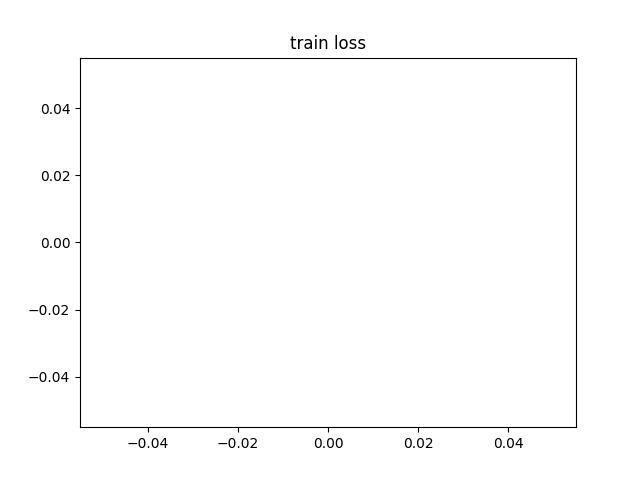
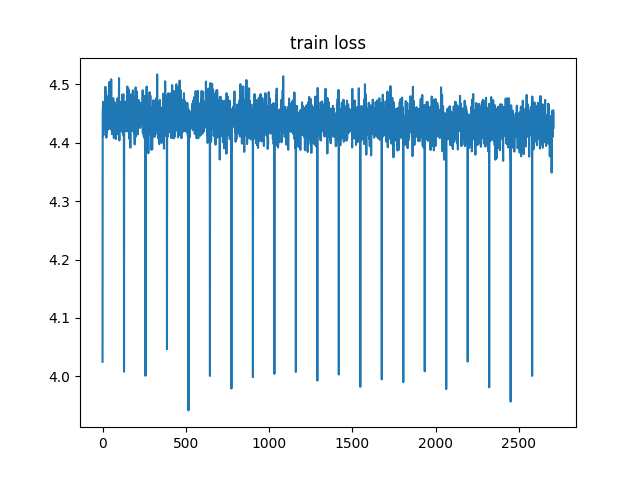
sad day, sad results

diff --git a/runFR_race.py b/runFR_race.py
@@ -37,17 +37,15 @@ def train_race_fr():
   tune_data, val_data = random_split(tune_val_data, [7112, 16595])
 
   # create the base model
-  saved = torch.load('chkpt/race_train.tar')
-  trained_model = model = ResNetSimCLR(
-    in_channels=3, n_classes=4, mlp_layers=2, blocks_layers=[3,3,3,3]
+  model = ResNetSimCLR(
+    in_channels=3, n_classes=5, mlp_layers=2, blocks_layers=[3,4,6,3]
   )
-  trained_model.load_state_dict(saved['model_state_dict'])
 
-  simclr = SimCLR(trained_model)
+  simclr = SimCLR(model)
   print(f'Our model has {simclr.trainer.num_params:,} parameters')
 
   results = simclr.full_model_maker(
-    train_data, tune_data, val_data, n_cycles=1, train_epochs=21, tune_epochs=20,
+    train_data, tune_data, val_data, n_cycles=1, train_epochs=71, tune_epochs=31,
     train_path='chkpt/race_train.tar', tune_path='chkpt/race_tune.tar'
   )
 

diff --git a/SimCLR/Makers.py b/SimCLR/Makers.py
@@ -252,7 +252,7 @@ class SimCLR:
     n_classes = self.trainer.model.n_classes
 
     model = ResNetSimCLR(
-      in_channels, self.n_classes, mlp_layers=3, blocks_layers=[3,3,3,3]
+      in_channels, self.n_classes, mlp_layers=3, blocks_layers=[3,4,6,3]
     )
 
     model.resnet.load_state_dict(resnet_dict)
